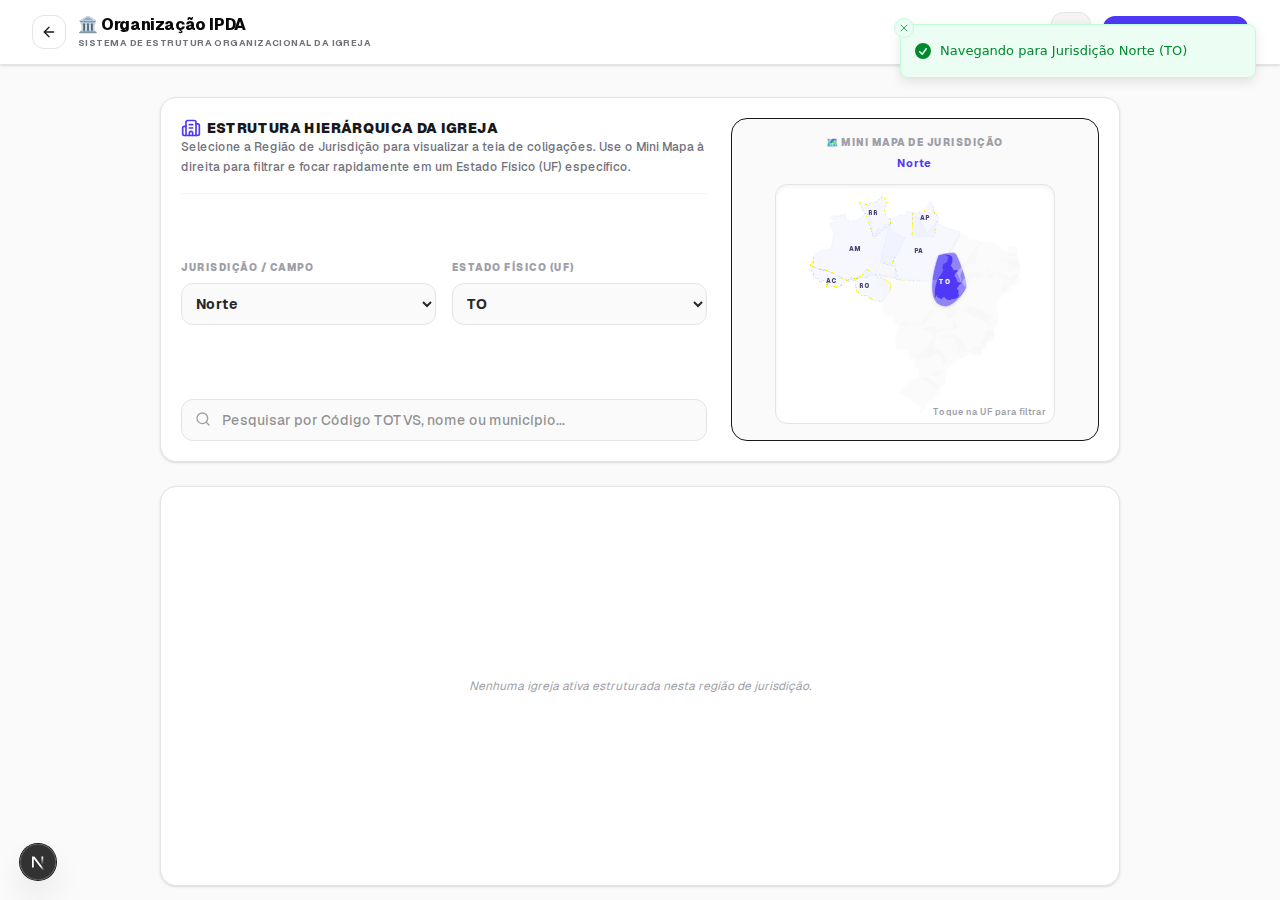
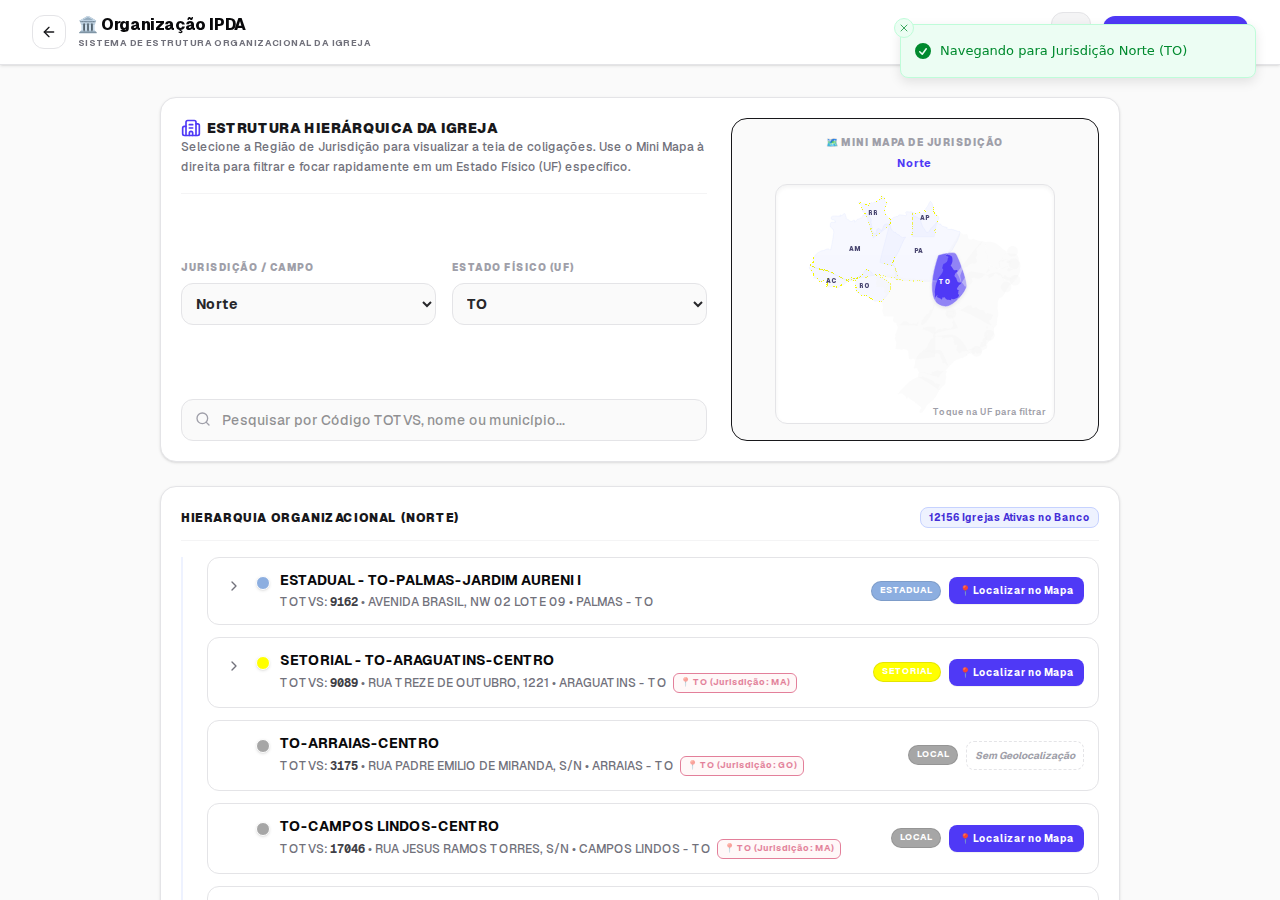
chore: migrate database to Supabase and update schema

diff --git a/src/scripts/import-backup-sql.ts b/src/scripts/import-backup-sql.ts
@@ -1,0 +1,131 @@
+import * as fs from 'fs';
+import * as path from 'path';
+import { Client } from 'pg';
+import * as dotenv from 'dotenv';
+
+// Load env variables
+dotenv.config({ path: '.env.local' });
+
+const databaseUrl = process.env.DATABASE_URL;
+
+if (!databaseUrl) {
+  console.error('Error: DATABASE_URL is not set in .env.local');
+  process.exit(1);
+}
+
+async function main() {
+  console.log('Connecting to Supabase...');
+  const client = new Client({
+    connectionString: databaseUrl,
+    ssl: {
+      rejectUnauthorized: false,
+    },
+  });
+
+  await client.connect();
+  console.log('Connected successfully!');
+
+  try {
+    // 1. Recreate table structure to match requirements exactly
+    console.log('Dropping existing table "igrejas" if any...');
+    await client.query('DROP TABLE IF EXISTS public.igrejas CASCADE;');
+
+    console.log('Creating table "igrejas" with requested schema...');
+    await client.query(`
+      CREATE TABLE public.igrejas (
+        id UUID PRIMARY KEY DEFAULT gen_random_uuid(),
+        codigo_totvs VARCHAR(100) UNIQUE NOT NULL,
+        desc_igreja VARCHAR(255) NOT NULL,
+        tipo_imovel VARCHAR(100),
+        endereco TEXT,
+        bairro VARCHAR(100),
+        municipio VARCHAR(100),
+        estado VARCHAR(50),
+        cep VARCHAR(20),
+        latitude DOUBLE PRECISION,
+        longitude DOUBLE PRECISION,
+        link_google_maps TEXT,
+        status VARCHAR(50) DEFAULT 'PENDENTE',
+        validado_por VARCHAR(100),
+        validado_em TIMESTAMP WITH TIME ZONE,
+        observacoes TEXT,
+        created_at TIMESTAMP WITH TIME ZONE DEFAULT CURRENT_TIMESTAMP,
+        updated_at TIMESTAMP WITH TIME ZONE DEFAULT CURRENT_TIMESTAMP,
+        usuario_validador VARCHAR(100),
+        codigo_totvs_pai VARCHAR(100),
+        porte VARCHAR(50)
+      );
+    `);
+    console.log('Table "igrejas" created successfully.');
+
+    // 2. Read the SQL file
+    const sqlFilePath = path.join(process.cwd(), 'igrejas_202608031504.sql');
+    console.log(`Reading SQL backup from ${sqlFilePath}...`);
+    const sqlContent = fs.readFileSync(sqlFilePath, 'utf8');
+
+    // Split SQL by "INSERT INTO public.igrejas"
+    const splitToken = 'INSERT INTO public.igrejas';
+    const parts = sqlContent.split(splitToken);
+
+    // The first part is everything before the first INSERT statement (should be empty or whitespace)
+    const statements: string[] = [];
+    for (let i = 1; i < parts.length; i++) {
+      const statement = (splitToken + parts[i]).trim();
+      if (statement) {
+        statements.push(statement);
+      }
+    }
+
+    console.log(`Found ${statements.length} INSERT blocks in the SQL file.`);
+
+    // 3. Execute INSERT blocks in batches
+    console.log('Starting mass data import into Supabase...');
+    const totalBlocks = statements.length;
+    let successCount = 0;
+
+    for (let i = 0; i < totalBlocks; i++) {
+      const stmt = statements[i];
+      try {
+        await client.query(stmt);
+        successCount++;
+        if (successCount % 100 === 0 || successCount === totalBlocks) {
+          console.log(`Progress: Imported ${successCount}/${totalBlocks} blocks...`);
+        }
+      } catch (err: any) {
+        console.error(`Error executing block ${i + 1}:`, err.message);
+        console.error(`Statement snippet: ${stmt.substring(0, 200)}...`);
+        throw err;
+      }
+    }
+
+    console.log('Import complete!');
+
+    // 4. Run post-import verification queries
+    console.log('\n--- VERIFICATION ---');
+    const countRes = await client.query('SELECT COUNT(*) FROM public.igrejas;');
+    const totalRecords = countRes.rows[0].count;
+    console.log(`Total churches imported: ${totalRecords}`);
+
+    const validatedCountRes = await client.query("SELECT COUNT(*) FROM public.igrejas WHERE status = 'VALIDADO';");
+    const validatedRecords = validatedCountRes.rows[0].count;
+    console.log(`Validated churches: ${validatedRecords}`);
+
+    const coordCountRes = await client.query("SELECT COUNT(*) FROM public.igrejas WHERE latitude IS NOT NULL AND longitude IS NOT NULL;");
+    const coordRecords = coordCountRes.rows[0].count;
+    console.log(`Churches with coordinates (non-null lat/lng): ${coordRecords}`);
+
+    // Fetch a sample record to confirm coordinate types and data integrity
+    const sampleRes = await client.query("SELECT codigo_totvs, desc_igreja, latitude, longitude, status FROM public.igrejas WHERE status = 'VALIDADO' LIMIT 3;");
+    console.log('\nSample Validated Records:');
+    console.log(JSON.stringify(sampleRes.rows, null, 2));
+
+  } catch (err) {
+    console.error('An error occurred during import:', err);
+    process.exit(1);
+  } finally {
+    await client.end();
+    console.log('Database connection closed.');
+  }
+}
+
+main();

diff --git a/src/lib/db.ts b/src/lib/db.ts
@@ -1,6 +1,7 @@
 import { Pool } from 'pg';
 
 export interface Igreja {
+  id?: string;
   codigo_totvs: string;
   desc_igreja: string;
   tipo_imovel: string;
@@ -17,6 +18,10 @@ export interface Igreja {
   codigo_totvs_pai?: string | null;
   porte?: string | null;
   updated_at?: string;
+  created_at?: string;
+  validado_por?: string | null;
+  validado_em?: string | null;
+  observacoes?: string | null;
 }
 
 // Check database URL in env
@@ -86,7 +91,8 @@ async function ensurePostgresTable() {
     try {
       await client.query(`
         CREATE TABLE IF NOT EXISTS igrejas (
-          codigo_totvs VARCHAR(100) PRIMARY KEY,
+          id UUID PRIMARY KEY DEFAULT gen_random_uuid(),
+          codigo_totvs VARCHAR(100) UNIQUE NOT NULL,
           desc_igreja VARCHAR(255) NOT NULL,
           tipo_imovel VARCHAR(100),
           endereco TEXT,
@@ -97,23 +103,26 @@ async function ensurePostgresTable() {
           link_google_maps TEXT,
           latitude DOUBLE PRECISION,
           longitude DOUBLE PRECISION,
-          status VARCHAR(20) DEFAULT 'PENDENTE',
+          status VARCHAR(50) DEFAULT 'PENDENTE',
+          validado_por VARCHAR(100),
+          validado_em TIMESTAMP,
           usuario_validador VARCHAR(100),
+          observacoes TEXT,
           codigo_totvs_pai VARCHAR(100),
           porte VARCHAR(50),
+          created_at TIMESTAMP DEFAULT CURRENT_TIMESTAMP,
           updated_at TIMESTAMP DEFAULT CURRENT_TIMESTAMP
         );
       `);
-      // Run alter table just in case the table exists but lacks columns
+      // Run alter table/checks just in case the table exists but lacks columns
       try {
-        await client.query(`ALTER TABLE igrejas ADD COLUMN IF NOT EXISTS codigo_totvs_pai VARCHAR(100);`);
+        await client.query(`ALTER TABLE igrejas ADD COLUMN IF NOT EXISTS id UUID DEFAULT gen_random_uuid();`);
+        await client.query(`ALTER TABLE igrejas ADD COLUMN IF NOT EXISTS validado_por VARCHAR(100);`);
+        await client.query(`ALTER TABLE igrejas ADD COLUMN IF NOT EXISTS validado_em TIMESTAMP;`);
+        await client.query(`ALTER TABLE igrejas ADD COLUMN IF NOT EXISTS observacoes TEXT;`);
+        await client.query(`ALTER TABLE igrejas ADD COLUMN IF NOT EXISTS created_at TIMESTAMP DEFAULT CURRENT_TIMESTAMP;`);
       } catch (alterErr) {
-        console.warn('Alter table column check failed (might be expected):', alterErr);
-      }
-      try {
-        await client.query(`ALTER TABLE igrejas ADD COLUMN IF NOT EXISTS porte VARCHAR(50);`);
-      } catch (alterErr) {
-        console.warn('Alter table porte column check failed (might be expected):', alterErr);
+        console.warn('Alter table columns check failed (might be expected):', alterErr);
       }
 
       // ---------------------------------------------------------------
@@ -164,6 +173,7 @@ export async function getIgrejas(filters?: { estado?: string; status?: string })
       query += ' ORDER BY desc_igreja ASC';
       const res = await pool.query(query, params);
       return res.rows.map((row) => ({
+        id: row.id,
         codigo_totvs: row.codigo_totvs,
         desc_igreja: row.desc_igreja,
         tipo_imovel: row.tipo_imovel,
@@ -180,6 +190,10 @@ export async function getIgrejas(filters?: { estado?: string; status?: string })
         codigo_totvs_pai: row.codigo_totvs_pai,
         porte: row.porte,
         updated_at: row.updated_at,
+        created_at: row.created_at,
+        validado_por: row.validado_por,
+        validado_em: row.validado_em,
+        observacoes: row.observacoes,
       }));
     } catch (err) {
       console.error('Postgres error in getIgrejas:', err);

diff --git a/verification/verify_organizacao.py b/verification/verify_organizacao.py
@@ -9,9 +9,9 @@ def main():
         page = context.new_page()
 
         try:
-            # Navigate to /organizacao on port 3001
-            print("Navegando para http://localhost:3001/organizacao...")
-            page.goto("http://localhost:3001/organizacao")
+            # Navigate to /organizacao on port 3000
+            print("Navegando para http://localhost:3000/organizacao...")
+            page.goto("http://localhost:3000/organizacao")
 
             # Wait for content to load
             print("Aguardando carregamento da página...")
